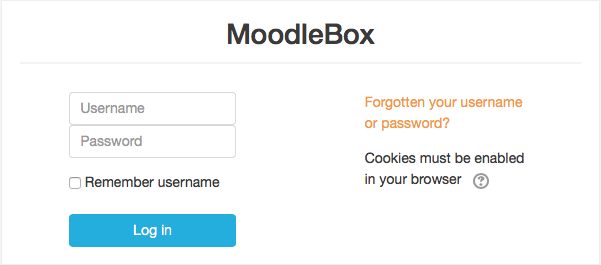
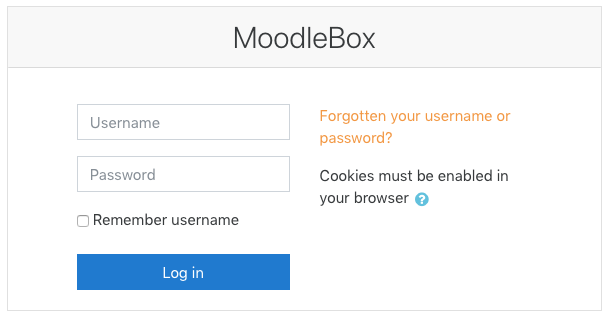
Login screenshots updated. German version added.

diff --git a/content/fr/help/access-to-moodle.md b/content/fr/help/access-to-moodle.md
@@ -4,6 +4,7 @@ authors:
   - Nicolas Martignoni
 type: kb
 date: 2017-04-17
+lastmod: 2018-07-15
 description: Pour accéder à Moodle sur la MoodleBox, vous devez d'abord être connecté à son réseau Wi-Fi, puis visiter http://moodlebox.home/
 slug: acces-a-moodle
 weight: 6
@@ -18,7 +19,7 @@ Vous pouvez maintenant accéder à Moodle au moyen de votre navigateur. Ouvrez v
   * nom d'utilisateur : __admin__
   * mot de passe : __Moodlebox4$__
 
-{{< figure link="/img/media/moodle-login-fr.png" caption="Connexion à Moodle" caption-position="bottom" caption-effect="appear" width="601px" >}}
+{{< figure link="/img/media/moodle-login-fr.png" caption="Connexion à Moodle" caption-position="bottom" caption-effect="appear" width="610px" >}}
 
 Vous êtes alors connecté au compte administrateur de Moodle sur la MoodleBox. Il est __fortement recommandé de modifier le mot de passe initial__ du compte administrateur de Moodle dès la première connexion.
 

diff --git a/content/de/help/access-to-moodle.md b/content/de/help/access-to-moodle.md
@@ -6,6 +6,7 @@ authors:
   - Ralf Krause
 type: kb
 date: 2018-02-01
+lastmod: 2018-07-15
 description: Für die Anmeldung in der Moodle-Plattform auf der MoodleBox müssen Sie sich zunächst in deren drahtlosem WLAN-Netzwerk verbinden, dann http://moodlebox.home/ öffnen
 slug: anmelden-in-moodle
 weight: 6
@@ -20,7 +21,7 @@ Nachdem Sie mit dem WLAN der MoodleBox verbunden sind, können Sie über Ihren B
   * Anmeldename: __admin__
   * Kennwort: __Moodlebox4$__
 
-{{< figure link="/img/media/moodle-login-en.png" caption="Anmelden in Moodle" caption-position="bottom" caption-effect="appear" width="601px" >}}
+{{< figure link="/img/media/moodle-login-de.png" caption="Anmelden in Moodle" caption-position="bottom" caption-effect="appear" width="610px" >}}
 
 Sie sind jetzt mit dem Administratorkonto im Moodle auf der MoodleBox verbunden. __Es wird dringend empfohlen, das Initialkennwort__ des Administratorkontos bei der ersten Anmeldung zu ändern.
 

diff --git a/content/en/help/access-to-moodle.md b/content/en/help/access-to-moodle.md
@@ -4,6 +4,7 @@ authors:
   - Nicolas Martignoni
 type: kb
 date: 2017-04-20
+lastmod: 2018-07-15
 description: To access to the Moodle installation of the MoodleBox, you must be connected to its Wi-Fi network and open http://moodlebox.home/
 slug: access-to-moodle
 weight: 6
@@ -18,7 +19,7 @@ You may now log into Moodle in your browser. Open your browser and type [http://
   * username: __admin__
   * password: __Moodlebox4$__
 
-{{< figure link="/img/media/moodle-login-en.png" caption="Moodle Login" caption-position="bottom" caption-effect="appear" width="601px" >}}
+{{< figure link="/img/media/moodle-login-en.png" caption="Moodle Login" caption-position="bottom" caption-effect="appear" width="610px" >}}
 
 You're now logged into the Moodle administrator account of the MoodleBox. It's __strongly recommended that you change the default password__ of the Moodle admin account at the first login.
 
